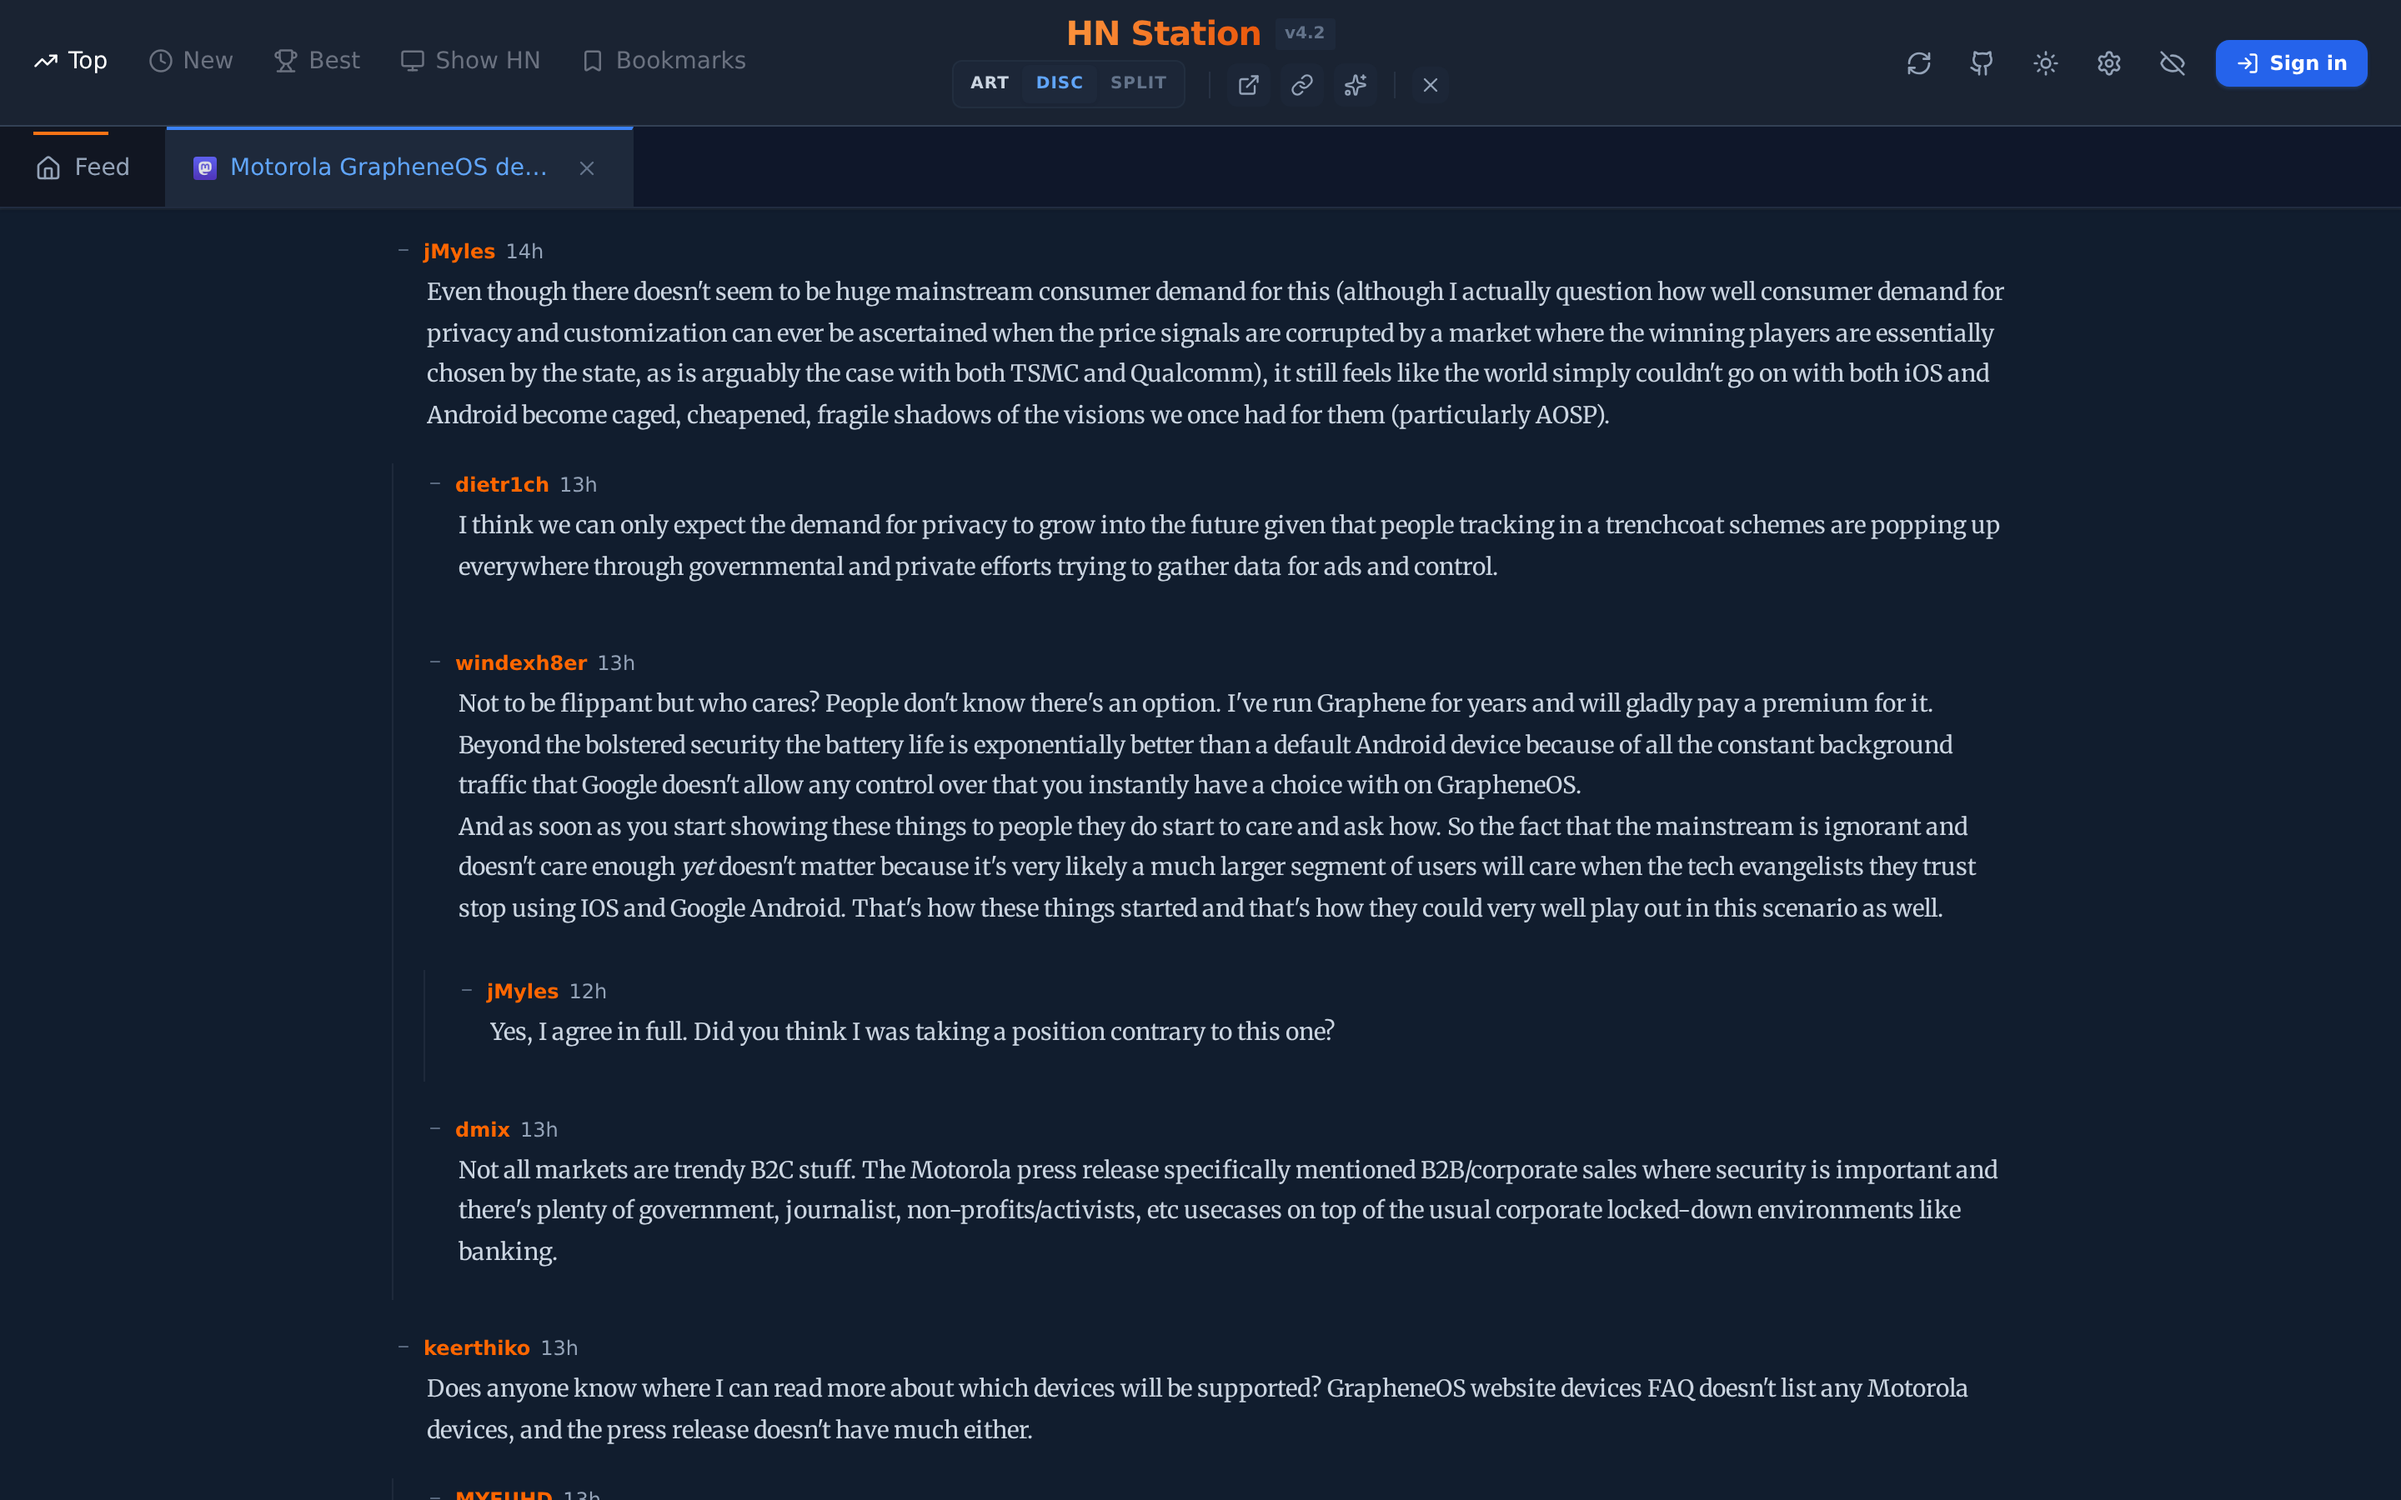
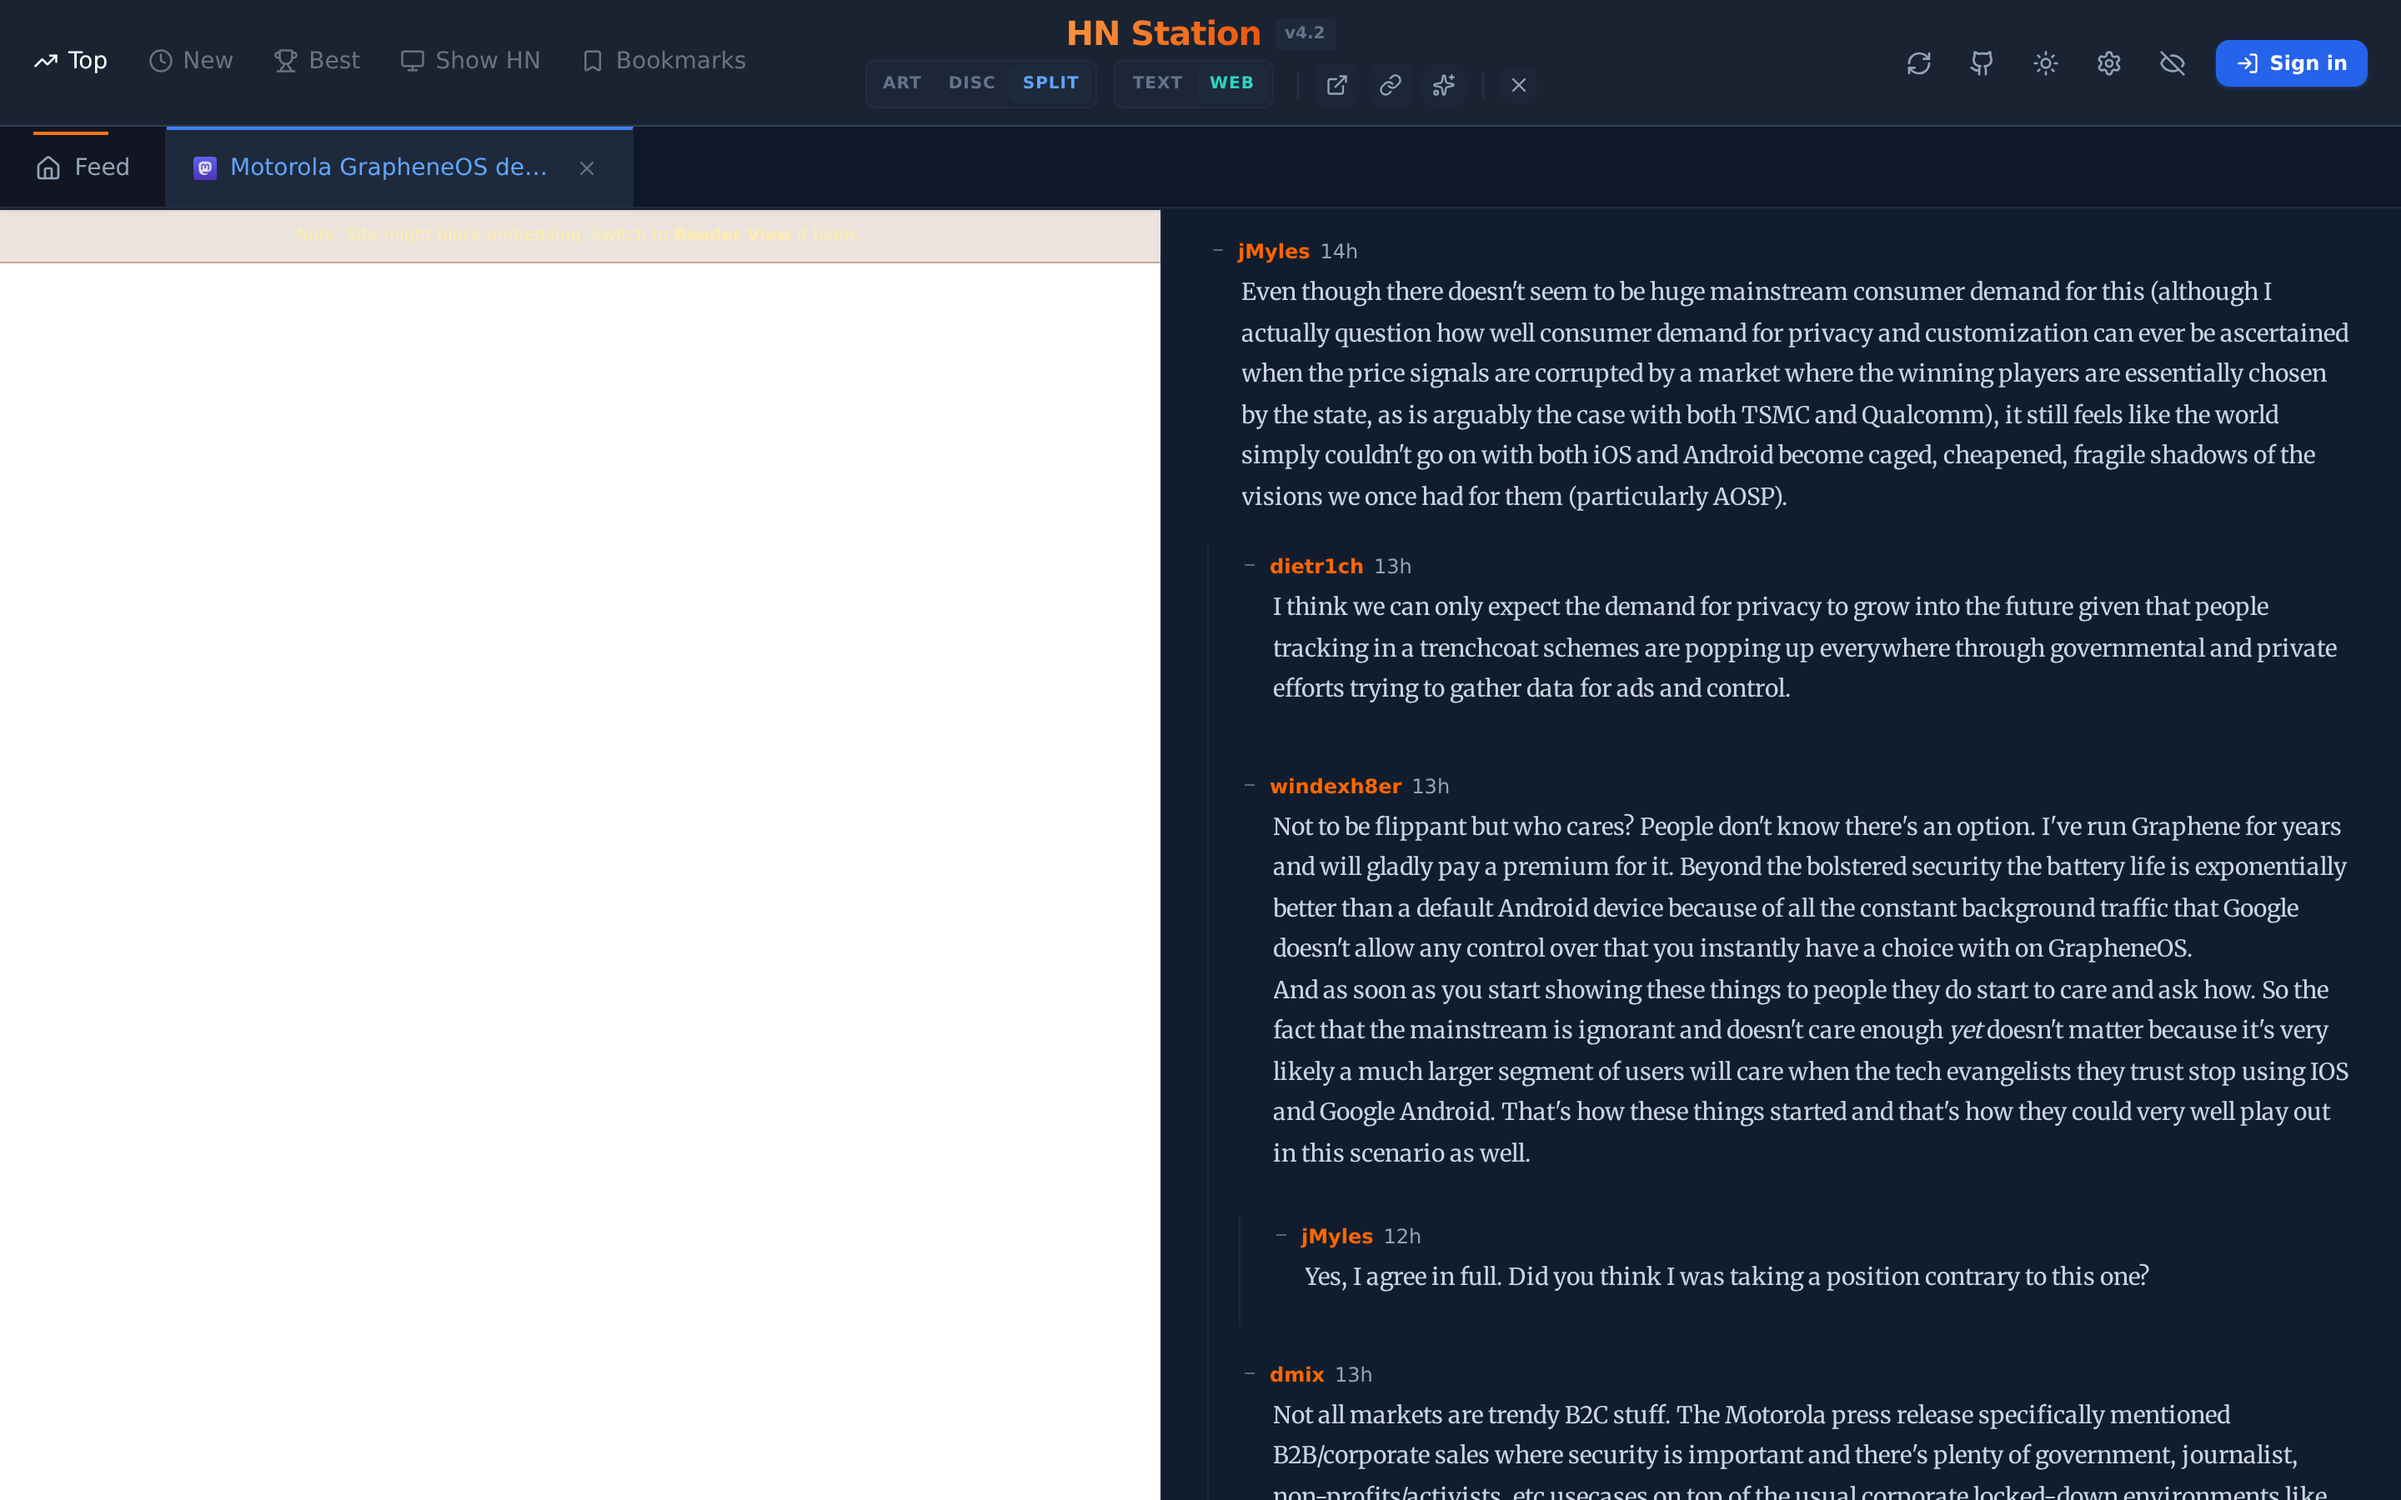
docs: replace discussion view with split view screenshot and auto script

diff --git a/scripts/screenshot/snap.js b/scripts/screenshot/snap.js
@@ -1,0 +1,68 @@
+const { chromium } = require('playwright');
+const path = require('path');
+
+// Target directory
+const outDir = '/home/rajesh/proj/hn_station/screenshots';
+
+(async () => {
+    // Launch in headless
+    const browser = await chromium.launch({ headless: true });
+    const context = await browser.newContext({
+        viewport: { width: 1440, height: 900 },
+        deviceScaleFactor: 2, // High resolution for Retina screens
+    });
+
+    const page = await context.newPage();
+
+    console.log("1. Taking screenshot of feed page...");
+    await page.goto('https://hnstation.dev', { waitUntil: 'networkidle' });
+    await page.waitForTimeout(1500); // Wait for potential fade-in/animations
+    await page.screenshot({ path: path.join(outDir, 'feed_page.png') });
+
+    console.log("2. Finding a good article for split view screenshot...");
+    // Find story cards
+    const stories = await page.locator('div[role="button"]').all();
+    let selectedStory = null;
+
+    // Try to find one that is likely a good article (has a domain, not github)
+    for (const story of stories) {
+        const text = await story.innerText();
+        if (text.includes('.') && !text.includes('github.com')) {
+            selectedStory = story;
+            break;
+        }
+    }
+
+    // Fallback to first if none match
+    if (!selectedStory && stories.length > 0) {
+        selectedStory = stories[0];
+    }
+
+    if (selectedStory) {
+        await selectedStory.click();
+        await page.waitForTimeout(2000); // Wait for sliding reader pane animation
+        await page.screenshot({ path: path.join(outDir, 'article.png') });
+
+        console.log("3. Enabling Split View...");
+        // Click Web View if available to make sure it looks impressive
+        const webBtn = page.locator('button[title="Web View"]');
+        if (await webBtn.count() > 0) {
+            await webBtn.click();
+            await page.waitForTimeout(1000);
+        }
+
+        const splitTab = page.locator('button[title="Split View"]');
+        if (await splitTab.count() > 0) {
+            await splitTab.click();
+            await page.waitForTimeout(3000); // Wait for discussion load and split animation
+            await page.screenshot({ path: path.join(outDir, 'discussion.png') });
+        } else {
+            console.error("Could not find Split View tab button");
+        }
+    } else {
+        console.error("Could not find a story card to click on");
+    }
+
+    await browser.close();
+    console.log("Screenshots completed successfully!");
+})();

diff --git a/README.md b/README.md
@@ -15,7 +15,7 @@ A modern, fast, and feature-rich Hacker News client built with Go and React. Liv
 ### Article View
 ![Article View](screenshots/article.png)
 
-### Discussion View
+### Split View
 ![Discussion View](screenshots/discussion.png)
 
 ---
